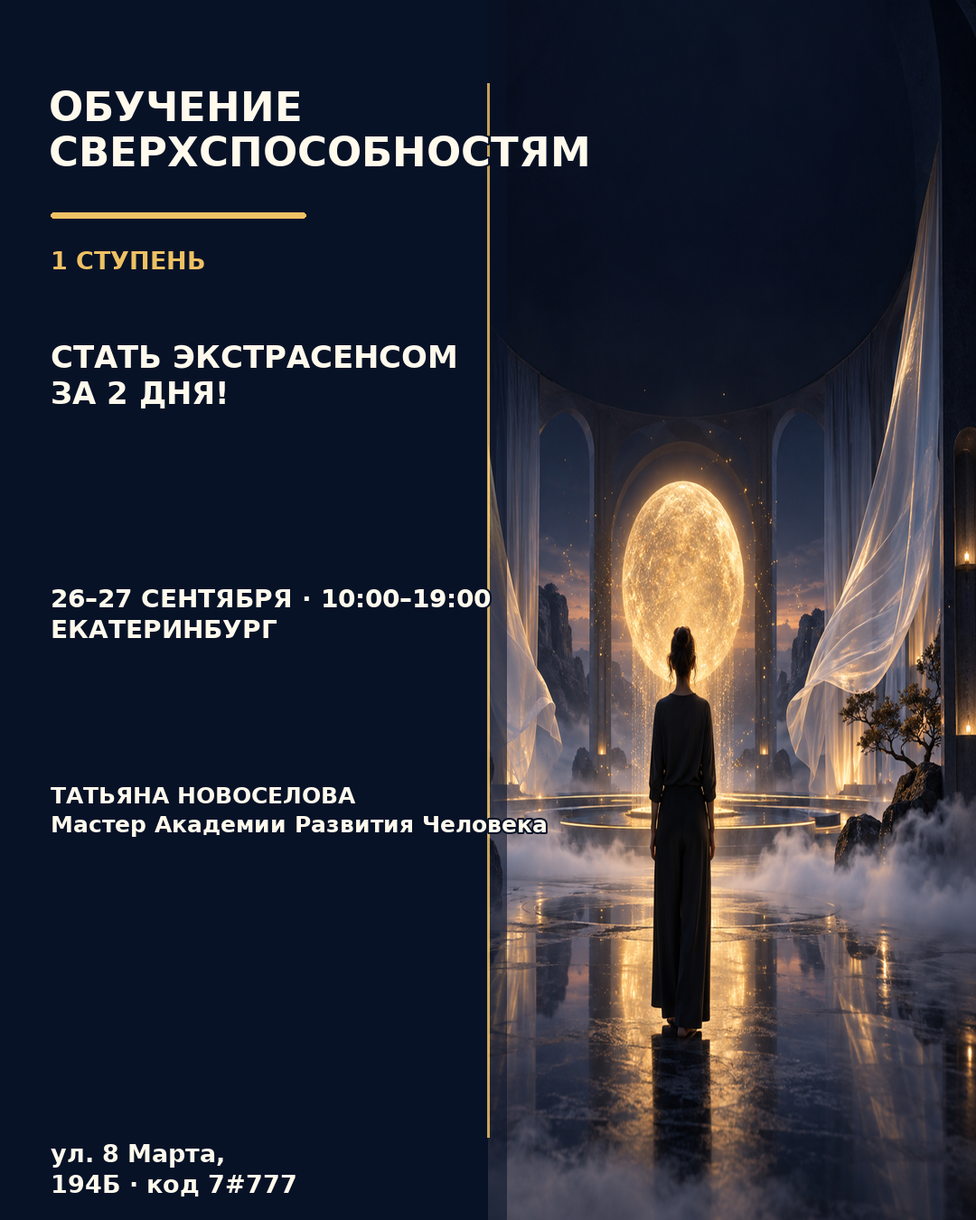
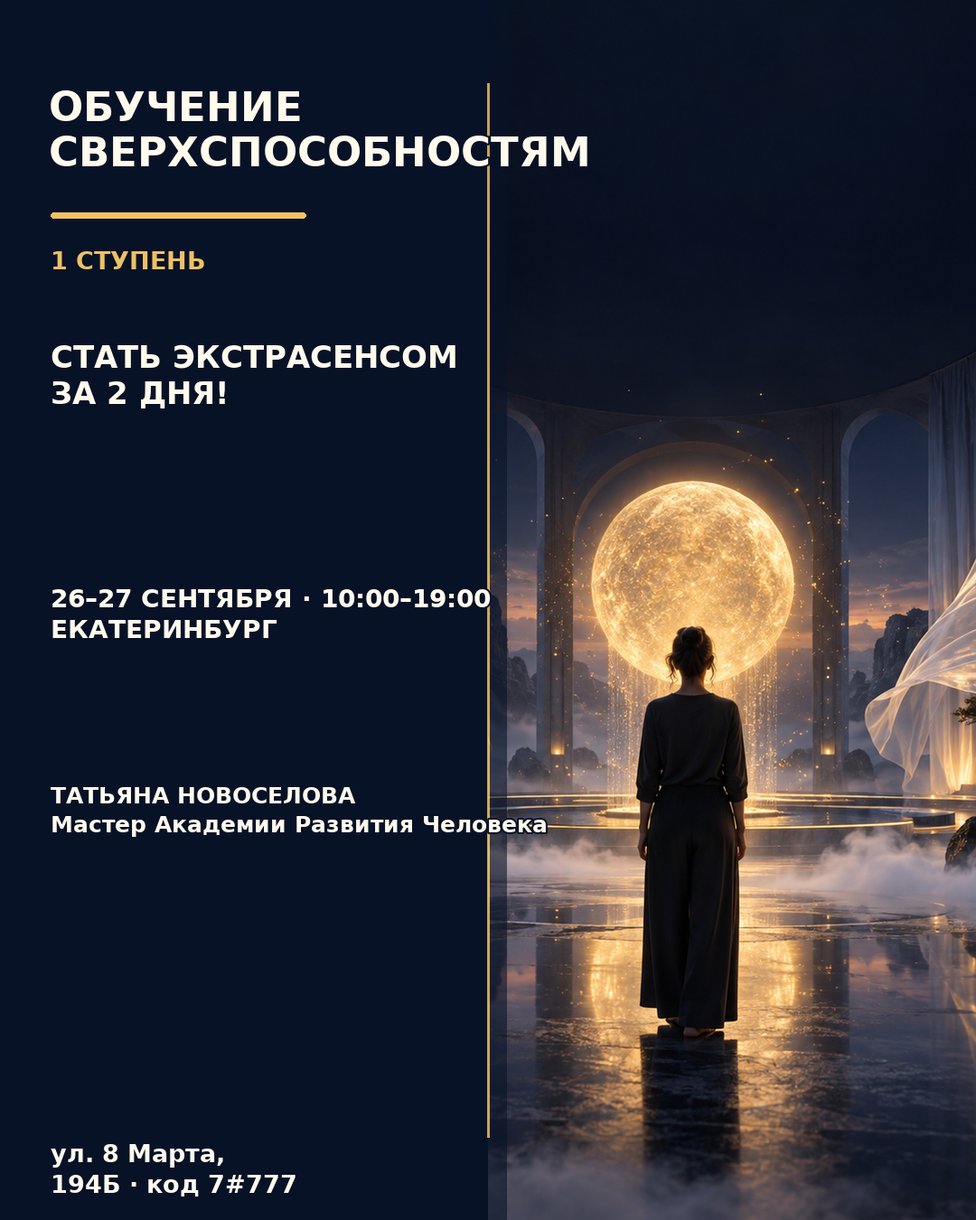
Preserve proportions in diptych posters

Changed region(s): [[0.4889, 0.1244, 1.0, 1.0]]

diff --git a/scripts/build_layout_comparison_posters.py b/scripts/build_layout_comparison_posters.py
@@ -98,7 +98,7 @@ def scene_integrated() -> None:
 def diptych() -> None:
     source = base_image("exec-530cd1a1-b74e-456a-96ca-9d8029f86fbe.png").convert("RGBA")
     image = Image.new("RGBA", (W, H), (8, 18, 39, 255))
-    right = source.crop((180, 0, W, H)).resize((540, H), Image.Resampling.LANCZOS)
+    right = ImageOps.fit(source, (540, H), method=Image.Resampling.LANCZOS, centering=(0.58, 0.5))
     image.alpha_composite(right, (540, 0))
     seam = Image.new("RGBA", (W, H), (0, 0, 0, 0))
     draw_seam = ImageDraw.Draw(seam)

diff --git a/.Codex/skills/event-media-visuals/SKILL.md b/.Codex/skills/event-media-visuals/SKILL.md
@@ -18,7 +18,7 @@ description: "Создаёт готовые для публикации изоб
    - символическая: магическая и образная, только если это уместно для темы; иначе — премиальная, предметная или природная интерпретация.
    Не повторяй между ними главный сюжет, ракурс, доминирующую палитру и действие.
 5. Сделай четвёртый, дополнительный визуал — отдельную 3D-стилизованную афишу в зацикленном GIF. Это самостоятельный четвёртый концепт, а не анимация одной из трёх статичных афиш. Специально выбери композицию, в которой есть минимум два естественно движущихся элемента: искры и объёмный свет для огня/металла; вода и туман; ткань и волосы на ветру; трава и солнечные блики; дым и мерцание. Если исходная тема не даёт таких элементов, построй сюжет вокруг уместного источника света, воздуха, воды или материалов — но не добавляй чужеродную магию. Не двигай картинку целиком, не делай зум, тряску или беспричинную анимацию. Текст и информационные плашки остаются неподвижными. GIF не содержит звук.
-6. В каждой афише используй единый порядок текста. По умолчанию располагай его одной крупной вертикальной колонкой на мягком контрастном градиенте, который плавно встроен в край изображения: это часть композиции, не отдельная карточка. Крупно — название события, максимум в две строки. Сразу под ним — главная мысль или оффер из исходника, в одну-две строки и заметно меньше названия. Средним кеглем — дата, время, город и ведущий, если он указан. Внизу той же колонки — точный адрес. Цена, телефон, программа и остальные данные по умолчанию остаются в подписи к посту; добавляй их на афишу только по явной просьбе. На вертикальной афише 1080×1350 не используй шрифт меньше 25 px для блока ведущего и 27 px для адреса; на других размерах увеличивай пропорционально. Генерируй художественную основу без мелкого текста; точные строки накладывай отдельной вёрсткой, чтобы не было ошибок. Визуал должен занимать большую часть кадра.
+6. В каждой афише используй единый порядок текста, но выбирай один из пяти режимов вёрстки и не повторяй его внутри статичной серии: (1) редакционная колонка — текст слева или справа на мягком контрастном градиенте, плавно встроенном в край изображения; (2) кинопостер — название в верхней трети, оффер под ним, дата и город в широкой нижней зоне; (3) текст в сцене — название и оффер встроены в свободную, контрастную часть сюжета или световую дугу, а технические данные собраны в устойчивой нижней зоне; (4) диптих — самостоятельные текстовая и визуальная части одной композиции; для визуальной части заранее оставляй область нужной пропорции и заполняй её только с сохранением пропорций исходного изображения, при необходимости кадрируя, но никогда не растягивая и не сжимая; (5) орбитальная композиция — герой или символ в центре, название и оффер по дуге или кольцу, технические данные в устойчивом нижнем блоке. Во всех режимах крупно — название события, максимум в две строки. Сразу под ним — главная мысль или оффер из исходника, в одну-две строки и заметно меньше названия. Средним кеглем — дата, время, город и ведущий, если он указан. Внизу — точный адрес. Цена, телефон, программа и остальные данные по умолчанию остаются в подписи к посту; добавляй их на афишу только по явной просьбе. На вертикальной афише 1080×1350 не используй шрифт меньше 25 px для блока ведущего и 27 px для адреса; на других размерах увеличивай пропорционально. Генерируй художественную основу без мелкого текста; точные строки накладывай отдельной вёрсткой, чтобы не было ошибок. Визуал должен занимать большую часть кадра.
 7. Если исходник длинный — больше 700 знаков либо содержит больше пяти существенных фактов — подготовь ещё три самостоятельных поста: для Telegram, ВК и MAX. Адаптируй структуру, но не искажай факты. Умеренно используй эмодзи: для навигации и акцентов, не в каждой строке.
 8. Перед выдачей проверь все четыре файла: формат и размеры, читаемость на уменьшенном до 540 px превью — в том числе адреса и блока ведущего без увеличения, — порядок текстовых уровней, отсутствие обрезанного текста, бессмысленных надписей, водяных знаков и деформированных рук/лиц. Сверь напечатанный текст с исходными данными. При провале проверки исправь результат до выдачи.
 
@@ -41,6 +41,7 @@ description: "Создаёт готовые для публикации изоб
 - Не заменяй основной текст события на один технический блок с датой, ценой или адресом: зритель должен сразу понимать, что это за событие и зачем оно ему.
 - Не выноси на афишу цену, телефон и длинную программу, если пользователь явно этого не просил.
 - Не размещай информационные строки мелким разрозненным текстом и не собирай весь текст в большую прямоугольную карточку; используй крупную интегрированную текстовую колонку с градиентом, если пользователь не указал другой стиль.
+- В режиме «Диптих» не деформируй визуальную часть: масштабируй пропорционально и кадрируй под выделенное место, а не сжимай или растягивай её по одной оси.
 - Не используй один и тот же персонаж, фон или композицию в трёх статичных вариантах.
 - Если приложена фотография человека и пользователь просит показать его, сохраняй узнаваемость и не подменяй личность другим человеком.
 - Не добавляй магические символы, религиозные мотивы или этнические орнаменты без опоры на тему или исходные материалы.

diff --git a/event-media-visuals-SKILL.md b/event-media-visuals-SKILL.md
@@ -18,7 +18,7 @@ description: "Создаёт готовые для публикации изоб
    - символическая: магическая и образная, только если это уместно для темы; иначе — премиальная, предметная или природная интерпретация.
    Не повторяй между ними главный сюжет, ракурс, доминирующую палитру и действие.
 5. Сделай четвёртый, дополнительный визуал — отдельную 3D-стилизованную афишу в зацикленном GIF. Это самостоятельный четвёртый концепт, а не анимация одной из трёх статичных афиш. Специально выбери композицию, в которой есть минимум два естественно движущихся элемента: искры и объёмный свет для огня/металла; вода и туман; ткань и волосы на ветру; трава и солнечные блики; дым и мерцание. Если исходная тема не даёт таких элементов, построй сюжет вокруг уместного источника света, воздуха, воды или материалов — но не добавляй чужеродную магию. Не двигай картинку целиком, не делай зум, тряску или беспричинную анимацию. Текст и информационные плашки остаются неподвижными. GIF не содержит звук.
-6. В каждой афише используй единый порядок текста. По умолчанию располагай его одной крупной вертикальной колонкой на мягком контрастном градиенте, который плавно встроен в край изображения: это часть композиции, не отдельная карточка. Крупно — название события, максимум в две строки. Сразу под ним — главная мысль или оффер из исходника, в одну-две строки и заметно меньше названия. Средним кеглем — дата, время, город и ведущий, если он указан. Внизу той же колонки — точный адрес. Цена, телефон, программа и остальные данные по умолчанию остаются в подписи к посту; добавляй их на афишу только по явной просьбе. На вертикальной афише 1080×1350 не используй шрифт меньше 25 px для блока ведущего и 27 px для адреса; на других размерах увеличивай пропорционально. Генерируй художественную основу без мелкого текста; точные строки накладывай отдельной вёрсткой, чтобы не было ошибок. Визуал должен занимать большую часть кадра.
+6. В каждой афише используй единый порядок текста, но выбирай один из пяти режимов вёрстки и не повторяй его внутри статичной серии: (1) редакционная колонка — текст слева или справа на мягком контрастном градиенте, плавно встроенном в край изображения; (2) кинопостер — название в верхней трети, оффер под ним, дата и город в широкой нижней зоне; (3) текст в сцене — название и оффер встроены в свободную, контрастную часть сюжета или световую дугу, а технические данные собраны в устойчивой нижней зоне; (4) диптих — самостоятельные текстовая и визуальная части одной композиции; для визуальной части заранее оставляй область нужной пропорции и заполняй её только с сохранением пропорций исходного изображения, при необходимости кадрируя, но никогда не растягивая и не сжимая; (5) орбитальная композиция — герой или символ в центре, название и оффер по дуге или кольцу, технические данные в устойчивом нижнем блоке. Во всех режимах крупно — название события, максимум в две строки. Сразу под ним — главная мысль или оффер из исходника, в одну-две строки и заметно меньше названия. Средним кеглем — дата, время, город и ведущий, если он указан. Внизу — точный адрес. Цена, телефон, программа и остальные данные по умолчанию остаются в подписи к посту; добавляй их на афишу только по явной просьбе. На вертикальной афише 1080×1350 не используй шрифт меньше 25 px для блока ведущего и 27 px для адреса; на других размерах увеличивай пропорционально. Генерируй художественную основу без мелкого текста; точные строки накладывай отдельной вёрсткой, чтобы не было ошибок. Визуал должен занимать большую часть кадра.
 7. Если исходник длинный — больше 700 знаков либо содержит больше пяти существенных фактов — подготовь ещё три самостоятельных поста: для Telegram, ВК и MAX. Адаптируй структуру, но не искажай факты. Умеренно используй эмодзи: для навигации и акцентов, не в каждой строке.
 8. Перед выдачей проверь все четыре файла: формат и размеры, читаемость на уменьшенном до 540 px превью — в том числе адреса и блока ведущего без увеличения, — порядок текстовых уровней, отсутствие обрезанного текста, бессмысленных надписей, водяных знаков и деформированных рук/лиц. Сверь напечатанный текст с исходными данными. При провале проверки исправь результат до выдачи.
 
@@ -41,6 +41,7 @@ description: "Создаёт готовые для публикации изоб
 - Не заменяй основной текст события на один технический блок с датой, ценой или адресом: зритель должен сразу понимать, что это за событие и зачем оно ему.
 - Не выноси на афишу цену, телефон и длинную программу, если пользователь явно этого не просил.
 - Не размещай информационные строки мелким разрозненным текстом и не собирай весь текст в большую прямоугольную карточку; используй крупную интегрированную текстовую колонку с градиентом, если пользователь не указал другой стиль.
+- В режиме «Диптих» не деформируй визуальную часть: масштабируй пропорционально и кадрируй под выделенное место, а не сжимай или растягивай её по одной оси.
 - Не используй один и тот же персонаж, фон или композицию в трёх статичных вариантах.
 - Если приложена фотография человека и пользователь просит показать его, сохраняй узнаваемость и не подменяй личность другим человеком.
 - Не добавляй магические символы, религиозные мотивы или этнические орнаменты без опоры на тему или исходные материалы.
